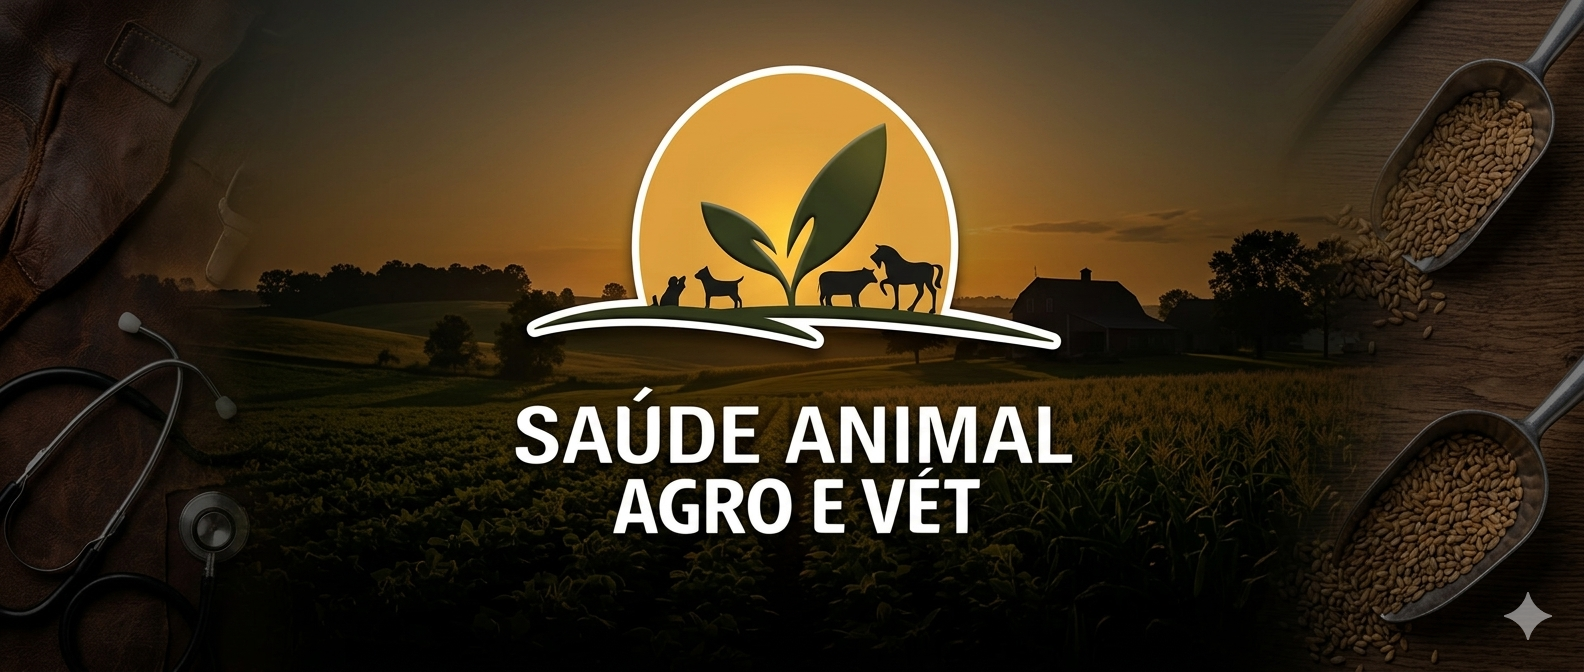
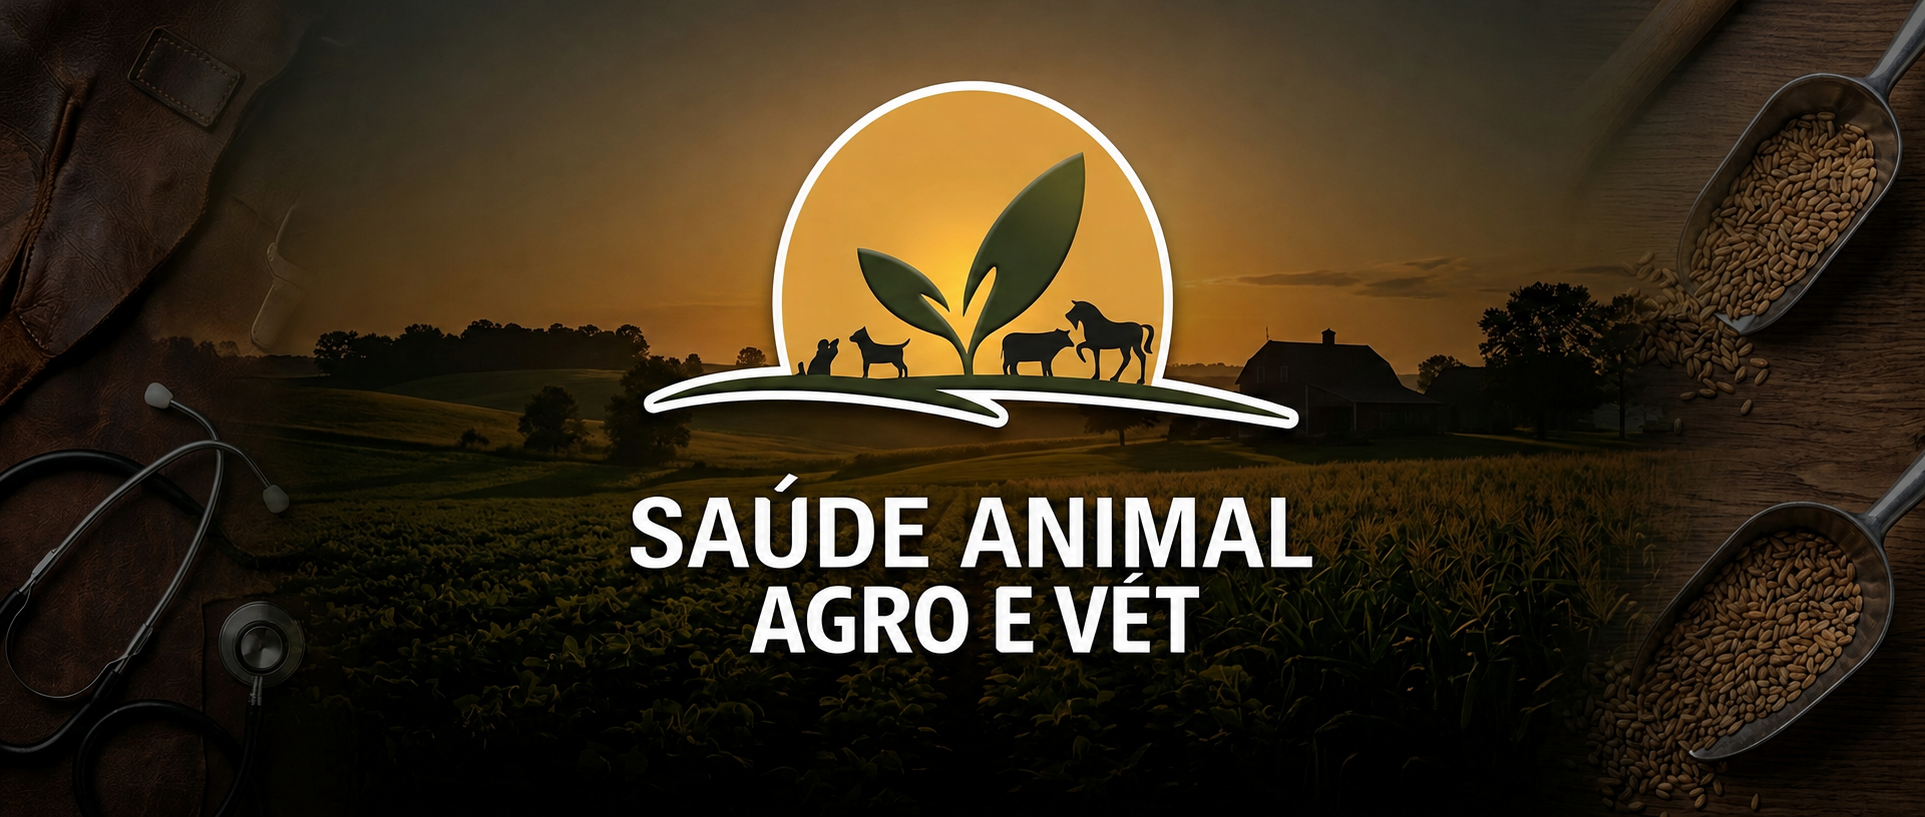
4 commit

diff --git a/style.css b/style.css
@@ -1,7 +1,33 @@
 .navbar-dark {
     background-color: #000000;
+    height: 200px;
 }
 .logo-img{
-    width: 15%;
+    margin-left: 100px;
+    margin-top: 20px;
+    width: 60%;
     height: auto
+}
+.busca {
+    width: 100%;
+}
+.contato  {
+    color: #fff;
+    font-size: 24px;
+}
+.col-md-3 text-star div {
+    align-height: 1.2;
+}
+.col-md-3 .span.d-block:first-child {
+    font-size: 11px;
+    color: #a0a0a0;
+    text-transform: uppercase;
+    font-weight: 600;
+    letter-spacing: 0.5px;
+}
+.col-md-3 .span.d-block:last-child {
+    font-size: 14px;
+    color: #fff;
+    font-weight: bold;
+    margin-top: 2px;
 }

diff --git a/index.php b/index.php
@@ -6,29 +6,51 @@
     <title>Saúde Animal Agro e Vet</title>
     <link href="https://cdn.jsdelivr.net/npm/bootstrap@5.3.8/dist/css/bootstrap.min.css" rel="stylesheet" integrity="sha384-sRIl4kxILFvY47J16cr9ZwB07vP4J8+LH7qKQnuqkuIAvNWLzeN8tE5YBujZqJLB" crossorigin="anonymous">
     <link rel="stylesheet" href="style.css">
+    <link rel="stylesheet" href="https://cdn.jsdelivr.net/npm/bootstrap-icons@1.11.3/font/bootstrap-icons.min.css">
 </head>
+<body>
 <header>
     <nav class="navbar-dark">
-  <div class="container-fluid d-flex justify-content-between align-items-center">
+  <div class="container-fluid"> 
 
-    <a class="logo ms-5" href="index.php">
+    <div class="row align-items-center"> 
+
+    <div class="col-md-3 col-sm-4">
+    <a class="logo" href="index.php">
       <img src="img/lojaicone.jpeg" alt="icone" class="logo-img">
     </a>
-    <form class="d-flex" role="search">
-      <input class="form-control me-2" type="search" placeholder="Search" aria-label="Search"/>
+</div>
+
+<div class="col-md-6 col-sm-8">
+    <form class="d-flex busca" role="search">
+      <input class="form-control me-2 w-100" type="search" placeholder="Search" aria-label="Search"/>
       <button class="btn btn-outline-success" type="submit">Search</button>
     </form>
+    </div>
+
+    <div class="col-md-3 d-none d-md-block text-white text-end">
+      <div class="d-inline-flex aling-items-center info-contato">
+        <div class="contato me-2">
+          <svg xmlns="http://www.w3.org/2000/svg" width="16" height="16" fill="currentColor" class="bi bi-telephone" viewBox="0 0 16 16">
+  <path d="M3.654 1.328a.678.678 0 0 0-1.015-.063L1.605 2.3c-.483.484-.661 1.169-.45 1.77a17.6 17.6 0 0 0 4.168 6.608 17.6 17.6 0 0 0 6.608 4.168c.601.211 1.286.033 1.77-.45l1.034-1.034a.678.678 0 0 0-.063-1.015l-2.307-1.794a.68.68 0 0 0-.58-.122l-2.19.547a1.75 1.75 0 0 1-1.657-.459L5.482 8.062a1.75 1.75 0 0 1-.46-1.657l.548-2.19a.68.68 0 0 0-.122-.58zM1.884.511a1.745 1.745 0 0 1 2.612.163L6.29 2.98c.329.423.445.974.315 1.494l-.547 2.19a.68.68 0 0 0 .178.643l2.457 2.457a.68.68 0 0 0 .644.178l2.189-.547a1.75 1.75 0 0 1 1.494.315l2.306 1.794c.829.645.905 1.87.163 2.611l-1.034 1.034c-.74.74-1.846 1.065-2.877.702a18.6 18.6 0 0 1-7.01-4.42 18.6 18.6 0 0 1-4.42-7.009c-.362-1.03-.037-2.137.703-2.877z"/>
+</svg>
+        </div>
+        <div class="d-flex flex-column">
+        <span class="d-block">Atendimento</span>
+        <span class="d-block">11 1234-5678</span>
+</div>
+  </div>
   </div>
 </nav>
 </header>
-<body>
+
     <main>
         <div class="container mt-5">
             <h1>Bem-vindo à Saúde Animal Agro e Vet</h1>
             <p>Encontre os melhores produtos para o cuidado dos seus animais de estimação e para a agricultura.</p>
         </div>
         <div class="container-fluid p-0">
-          <div class="row g-0"
+          <div class="row g-0">
             <div class="col-12">
               <img src="img/banner.png" alt="banner" class="img-fluid w-100">
             </div>